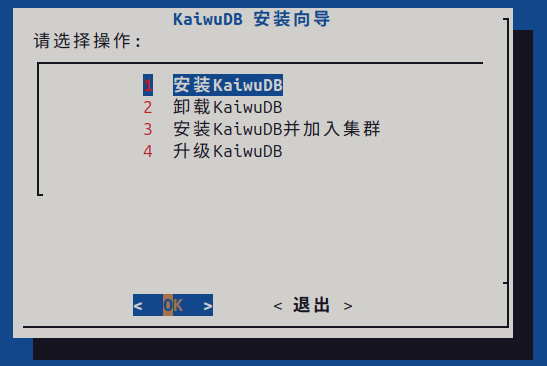
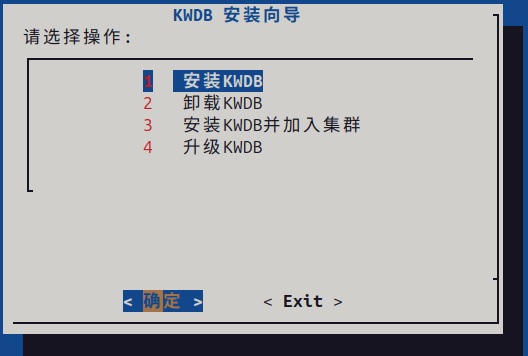
commit-message: add pic update

Changed region(s): [[0.0, 0.0, 1.0, 1.0]]

diff --git a/deployment/cluster-deployment/installer-cli.md b/deployment/cluster-deployment/installer-cli.md
@@ -134,15 +134,15 @@ id: installer-cli
     | `user` | 远程节点的 SSH 登录用户。各节点的 SSH 登录用户必须相同。 |
     | `passwd` | 远程节点的 SSH 登录密码。各节点的 SSH 登录密码必须相同。 |
 
-6. 选择是否为所有用户安装 KWDB：
+7. 选择是否为所有用户安装 KWDB：
 
     ```plain
     是否为所有用户安装：(y/N)
     ```
 
-7. 安装过程中终端会实时显示安装进度。出现错误时，可以通过查看安装目录 `log` 目录下的日志文件获取详细信息。
+8. 安装过程中终端会实时显示安装进度。出现错误时，可以通过查看安装目录 `log` 目录下的日志文件获取详细信息。
 
-8. 所有节点部署完成后，根据提示选择是否初始化集群：
+9. 所有节点部署完成后，根据提示选择是否初始化集群：
 
     ```plain
     是否初始化集群：(y/N)
@@ -159,9 +159,9 @@ id: installer-cli
         多副本集群初始化和启动大约需要 10 秒左右时间。在此期间，如果有节点死亡，可能会导致集群无法触发高可用机制。
         :::
 
-9. 在主功能菜单，输入 `5` 退出部署流程。
+10. 在主功能菜单，输入 `5` 退出部署流程。
 
-10. 使用以下任一方式查看服务或集群状态：
+11. 使用以下任一方式查看服务或集群状态：
 
     ```bash
     # 查看服务状态
@@ -184,9 +184,8 @@ id: installer-cli
     | `locality` | 节点 ID。 |
     | `start_mode` | 节点启动模式。 |
     | `is_available` / `is_live` | 均为 `true` 表示节点处于正常状态；均为 `false` 表示节点处于异常状态。 |
-    
 
-11. （可选）配置 KWDB 开机自启动。
+12. （可选）配置 KWDB 开机自启动。
 
     ```bash
     systemctl enable kaiwudb
@@ -196,7 +195,7 @@ id: installer-cli
     系统重启后，如果当前节点与其他节点时钟相差大于 500 ms，可能导致 KWDB 自启动失败。需先完成时钟同步，再手动启动 KWDB。
     :::
 
-12. 执行 `kw-sql` 使用数据库部署用户登录数据库或者通过以下任一方式连接和管理 KWDB:
+13. 执行 `kw-sql` 使用数据库部署用户登录数据库或者通过以下任一方式连接和管理 KWDB:
     - [kwbase CLI](../../quickstart/access/access-cli.md)
     - [KWDB 支持的连接器](../../development/overview.md)
     - [KaiwuDB 开发者中心](../../kaiwudb-tools/kaiwudb-developer-center/overview.md)

diff --git a/deployment/uninstall-cluster.md b/deployment/uninstall-cluster.md
@@ -7,7 +7,6 @@ id: uninstall-cluster
 
 本节介绍了 KWDB 数据库在不同部署方式下的卸载方法，包括安装程序部署、kwbase CLI 部署及容器镜像部署。请根据实际部署方式选择合适的卸载方案。
 
-
 ## 安装程序部署卸载
 
 对于通过安装程序部署的 KWDB，根据安装时选择的交互模式，选择对应的卸载方式。
@@ -19,7 +18,9 @@ id: uninstall-cluster
 ```bash
 systemctl stop kaiwudb
 ```
+
 **步骤**：
+
 1. 登录安装部署 KWDB 的初始节点，执行以下命令以命令行模式启动安装程序：
 
     ```bash
@@ -77,6 +78,7 @@ systemctl stop kaiwudb
 ```
 
 **步骤**：
+
 1. 登录安装部署 KWDB 的初始节点，执行以下命令以终端图形交互模式启动安装程序：
 
     ```bash
@@ -88,7 +90,7 @@ systemctl stop kaiwudb
 2. 在主功能菜单中，使用方向键选中**卸载 KWDB**，按回车确认。
 
 3. 进入参数设置菜单，根据需要依次选择各配置项进行设置：
-    
+
     配置项说明：
 
     | 配置项 | 说明 |
@@ -97,10 +99,9 @@ systemctl stop kaiwudb
     | 管理卸载节点列表 | 查看已添加的节点信息。 |
     | 设置数据目录 | 输入待删除的数据目录，默认为 `/var/lib/kaiwudb`。 |
 
-3. 所有配置完成后，选中**开始卸载**，按回车开始卸载。
+4. 所有配置完成后，选中**开始卸载**，按回车开始卸载。
 
-4. 根据提示确认是否删除所有配置及数据。卸载完成后，界面提示卸载完成。
-
+5. 根据提示确认是否删除所有配置及数据。卸载完成后，界面提示卸载完成。
 
 ## 源码编译部署
 

diff --git a/quickstart/deploy/quickstart-installer-dialog.md b/quickstart/deploy/quickstart-installer-dialog.md
@@ -49,7 +49,6 @@ id: quickstart-installer-dialog
 
     ![](../../static/quickstart/gui-dialog-config.png)
 
-    
     各配置项说明：
 
     | 配置项 | 说明 |
@@ -65,14 +64,11 @@ id: quickstart-installer-dialog
 
 5. 所有配置完成后，选中**开始安装**，按回车开始安装 KWDB。
 
-
 6. 根据需要选择是否为所有用户安装 KWDB。
-
 
 7. 安装过程中终端会实时显示安装进度。出现错误时，可以通过查看安装目录 `log` 目录下的日志文件获取详细信息。
 
-
-8. 安装成功后，终端输出安装成功提示，选择是否启动 KWDB。
+8. 安装成功后，终端输出安装成功提示，选择是否启动数据库。
     - 选择是：系统自动启动 KWDB。
     - 选择否：后续需要手动启动 KWDB。
 

diff --git a/deployment/cluster-deployment/installer-dialog.md b/deployment/cluster-deployment/installer-dialog.md
@@ -81,7 +81,7 @@ id: installer-dialog
 
 7. 安装过程中终端会实时显示安装进度。出现错误时，可以通过查看安装目录 `log` 目录下的日志文件获取详细信息。
 
-8. 安装成功后，终端输出安装成功提示，选择是否启动 KWDB。
+8. 安装成功后，终端输出安装成功提示，选择是否启动数据库。
     - 选择是：系统完成启动后将弹出启动成功对话框。
     - 选择否：后续需要手动启动 KWDB。
 